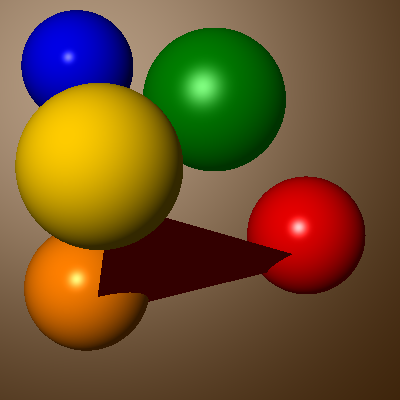
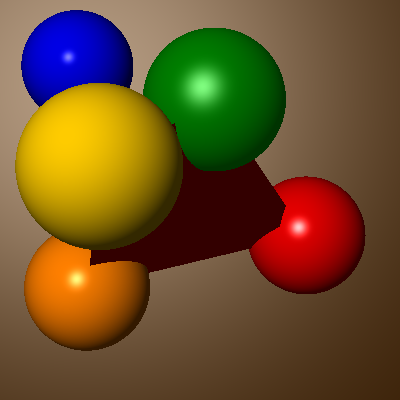
fixed triangles

Changed region(s): [[0.21, 0.39, 0.72, 0.75], [0.42, 0.3, 0.45, 0.33]]

diff --git a/Amabili_Eilers_Raytracer_1/Code/shapes/triangle.cpp b/Amabili_Eilers_Raytracer_1/Code/shapes/triangle.cpp
@@ -8,85 +8,50 @@ using namespace std;
 Hit Triangle::intersect(Ray const &ray)
 {
     /****************************************************
-    * RT1.1: INTERSECTION CALCULATION
+    * RT1.1: INTERSECTION AND NORMAL CALCULATION
     *
     * Given: ray.0, ray.D, v1, v2, v3
     * Sought: intersects? if true: *t
     *
-    * The ray parametric equation is:
-    *       ray = p + t * d
+    * Using the Möller-Trumbore algorithm
     *
-    * where d = distance between ray and position
-    *       p = point in the line
-    *       t = vector that provides the line's direction 
-    *
-    * Considering that 
-    *       point(u,v) = (1-u-v)*p0 + u*p1 + v*p2
-    *
-	*       where p0,p1,p2 are the vertices of the triangle 
-    *
-	*       u >= 0
-	*       v >= 0
-	*       u + v <= 1
-    *
-    * If the ray does not intersect the sphere, return false.
-    * Otherwise, return true and place the distance of the
-    * intersection point from the ray origin in *t (see example).
     ****************************************************/
 
-    // place holder for actual intersection calculation
     
     // Edge vectors
-
     
+    Vector dd = ray.D;
+    dd = dd * dd.length();
+
     Vector e1 = (v2 - v1);
     Vector e2 = (v3 - v1);
 
-    // Face normal - Normal calculation
-    Vector N = e1.cross(e2);
+    Vector pvec = ray.D.cross(e2);
+    double det = e1.dot(pvec);
   
-    double q = N.dot(ray.D);
 
     // To check relative position of the triangle with the ray
-    if (fabs(q) < eps) return Hit::NO_HIT();
+    if (fabs(det) < eps) return Hit::NO_HIT();
+    
 
-    double d = N.dot(v1);
+    double invDet = 1.0 / det;
+    
+    Vector tvec = ray.O - v1;
+    double u = tvec.dot(pvec)*invDet;
+    
+    if (u < 0 || u > 1) return Hit::NO_HIT();
+    
+    Vector qvec = tvec.cross(e1);
+    double v = ray.D.dot(qvec) * invDet;
+    
+    if (v < 0 || u + v > 1) return Hit::NO_HIT(); 
 
-    double t =- ((N.dot(ray.O) + d) / q); 
-
-
-    // To check if the triangle is in behind the ray
-    if (t < 0) return Hit::NO_HIT();
-
+    double t =  e2.dot(qvec) * invDet;
+    
+    
+    // Normal calculation
+    Vector N = e1.cross(e2);
    
-
-    Vector P = ray.O + (t * ray.D);
-
-    // To test whether the intersection is outside the triangle
-    // Checking edge by edge
-    Vector edge1 = (v2 - v1);
-    Vector edge2 = (v3 - v2);
-    Vector edge3 = (v1 - v3);
-    Vector C1 = P - v1;
-    Vector C2 = P - v2;
-    Vector C3 = P - v3;
-
-    if (N.dot(edge1.cross(C1)) < 0 ||
-        N.dot(edge2.cross(C2)) < 0 ||
-        N.dot(edge3.cross(C3)) < 0) return Hit::NO_HIT();
-       
-
-                 
-
-    /****************************************************
-    * RT1.2: NORMAL CALCULATION
-    *
-    * Given: t, C, r
-    * Sought: N
-    *
-    * Insert calculation of the sphere's normal at the intersection point.
-    ****************************************************/
-
     N.normalize();
 
     return Hit(t, N);

diff --git a/Amabili_Eilers_Raytracer_1/Code/scene.cpp b/Amabili_Eilers_Raytracer_1/Code/scene.cpp
@@ -31,9 +31,9 @@ Color Scene::trace(Ray const &ray)
     Material material = obj->material;             //the hit objects material
     Point hit = ray.at(min_hit.t);                 //the hit point
     Vector N = min_hit.N;                          //the normal at hit point
-    //printf("%lf, %lf, %lf\n", ray.D.x, ray.D.y, ray.D.z);
     Vector V = -ray.D;                             //View direction 
-    Color color = getLighting(material, hit, N, V);
+    
+    Color color = getLighting(material, hit, N, V); //Get full phong lighting
 
     /****************************************************
     * This is where you should insert the color
@@ -101,6 +101,12 @@ unsigned Scene::getNumLights()
     return lights.size();
 }
 
+/**
+ * @brief Calculates full phong lighting
+ * @param Material of the shape, point of intersection, normal vector, view vector
+ * @returns The color of the pixel the be drawn
+ */
+
 Color Scene::getLighting(Material material, Point hit, Vector N, Vector V) {
     
     Color color(0.0, 0.0, 0.0);
@@ -113,14 +119,13 @@ Color Scene::getLighting(Material material, Point hit, Vector N, Vector V) {
     
         Color id(0.0,0.0,0.0);
         double dot = L.dot(N);
-        if(dot > 0)  id = dot *  material.color* light->color * material.kd;
+        if(dot > 0) id = dot *  material.color* light->color * material.kd;
     
         //Specular
     
         dot = R.dot(V);    
         Color is(0.0,0.0,0.0);
         if(dot > 0) is = pow(dot, material.n) * light->color*material.ks;
-    
     
         color = color + id + is;
     }

diff --git a/Amabili_Eilers_Raytracer_1/Code/shapes/sphere.cpp b/Amabili_Eilers_Raytracer_1/Code/shapes/sphere.cpp
@@ -22,8 +22,6 @@ Hit Sphere::intersect(Ray const &ray)
     * intersection point from the ray origin in *t (see example).
     ****************************************************/
 
-    // place holder for actual intersection calculation
-
     Vector OC = (position - ray.O);
     double tca = OC.dot(ray.D);
     if (tca < 0) {
@@ -35,16 +33,17 @@ Hit Sphere::intersect(Ray const &ray)
     if(d > r) {
         return Hit::NO_HIT();
     }
+    
     double tch = sqrt(r*r -d*d);
     double t1 = tca-tch;
     double t2 = tca + tch;
     
     
-    if (t1 > t2) swap(t1,t2);
+    if (t1 > t2) swap(t1,t2); //Smallest t is closest intersection
     
     if (t1 < 0) {
         t1 = t2;
-        if (t1 < 0) return Hit::NO_HIT(); 
+        if (t1 < 0) return Hit::NO_HIT(); //Both intersections are negative
     }
 
     double t = t1;
@@ -58,15 +57,11 @@ Hit Sphere::intersect(Ray const &ray)
     *
     * Insert calculation of the sphere's normal at the intersection point.
     ****************************************************/
-
-
     
-    Vector p = ray.O + (ray.D*t);
+    Vector p = ray.at(t); //Point of intersection
     Vector N = p - position;
     
     N.normalize();
-    
-
 
     return Hit(t,N);
 }

diff --git a/Amabili_Eilers_Raytracer_1/Code/raytracer.cpp b/Amabili_Eilers_Raytracer_1/Code/raytracer.cpp
@@ -21,9 +21,13 @@
 
 #include "json/json.h"
 
+#include <utility> // declval, forward, move, pair, swap
+
 #include <exception>
 #include <fstream>
 #include <iostream>
+
+
 
 using namespace std;        // no std:: required
 using json = nlohmann::json;
@@ -56,8 +60,9 @@ bool Raytracer::parseObjectNode(json const &node)
         obj = ObjectPtr(new Triangle(v1, v2, v3));
     }
     else if (node["type"] == "mesh") 
-    {
-
+    {   
+        json j = node["name"];
+        //if(j.is_string()); c = j.get_impl_ptr(s.to_string_t);
        // OBJLoader objl(node["name"]);    
     }
     else

diff --git a/Amabili_Eilers_Raytracer_1/Code/shapes/plane.cpp b/Amabili_Eilers_Raytracer_1/Code/shapes/plane.cpp
@@ -21,12 +21,12 @@ Hit Plane::intersect(Ray const &ray)
     
     double d = normal.dot(ray.D);
     
-    if(d < 0.000001) return Hit::NO_HIT(); //Ray is (close to) parrallel to the plane
+    if(d < 0.000001) return Hit::NO_HIT(); //Ray is (close to) parallel to the plane
     
     Vector p = position - ray.O;
     double t = p.dot(normal) / d;
     
-    if(t < 0) return Hit::NO_HIT();
+    if(t < 0) return Hit::NO_HIT(); //Ray is behind plane
     
     normal.normalize();
     

diff --git a/Amabili_Eilers_Raytracer_1/Code/shapes/triangle.h b/Amabili_Eilers_Raytracer_1/Code/shapes/triangle.h
@@ -3,6 +3,10 @@
 
 #include "../object.h"
 
+/**
+ * A triangle is consists of three points or vertices in 3d space.
+ */
+
 class Triangle: public Object
 {
     public:
@@ -10,7 +14,7 @@ class Triangle: public Object
 
         virtual Hit intersect(Ray const &ray);
 
-        /* My data members*/
+        /* Data members*/
 
         Point const v1;
         Point const v2;

diff --git a/Amabili_Eilers_Raytracer_1/Code/shapes/plane.h b/Amabili_Eilers_Raytracer_1/Code/shapes/plane.h
@@ -3,6 +3,10 @@
 
 #include "../object.h"
 
+/**
+ * Plane is defined by its position and its normal defining the orientation of the plane
+ */
+
 class Plane: public Object
 {
     public:

diff --git a/Amabili_Eilers_Raytracer_1/Code/triple.cpp b/Amabili_Eilers_Raytracer_1/Code/triple.cpp
@@ -6,6 +6,7 @@
 #include <exception>
 #include <iostream>
 
+
 using namespace std;
 using json = nlohmann::json;
 

diff --git a/Amabili_Eilers_Raytracer_1/README.md b/Amabili_Eilers_Raytracer_1/README.md
@@ -1,102 +1,8 @@
-# Raytracer C++ framework for Introduction to Computer Graphics
+### Assignment #2 - Raytracer 1 - Computer Graphics course - made
+by Lorenzo Amabili(p281542) and Pieter Jan Eilers(s2381575) .
+## The project consisted of producing a 3D scene using a basic ray tracing algorithm, and the implementation of (Phong) illumination will be based on the intersection calculation together with normal calculation. Additional geometries such as a triangle and a plane have been implemented too.
+## Following the instructions, we completed successfully the implementation of "Raycasting with spheres & Phong illumination" (i.e., (a) Phong diffuse (b) Full Phong (c) Scene 2) ), whereas we partially completed the section "Additional geometry and meshes ".
 
-This is a C++ framework for a raytracer. It is created for the Computer
-Science course "Introduction to Computer Graphics" taught at the
-University of Groningen.
-
-This framework is inspired by and uses (some) code of the raytracer framework of
-Bert Freudenberg which unfortunately is no longer available.
-
-## Compiling the code
-
-We provided a [CMakeLists.txt](CMakeLists.txt) file to be used with `cmake`.
-This can be used in the following way (on the command line/shell):
-```
-# cd into the main directory of the framework
-mkdir build   # create a new build directory
-cd build      # cd into the directory
-cmake ..      # creates a Makefile
-# Comipiling the code can then be done with:
-make
-# or
-make -j4      # replacing 4 with the number of cores of your pc
-```
-**Note!** After adding new `.cpp` files (when adding new shapes)
-`cmake ..` needs to be called again or you might get linker errors.
-
-## Running the Raytracer
-After compilation you should have the `ray` executable.
-This can be used like this:
-```
-./ray <path to .json file> [output .png file]
-# when in the build directory:
-./ray ../Scenes/scene01.json
-```
-Specifying an output is optional and by default an image will be created in
-the same directory as the source scene file with the `.json` extension replaced
-by `.png`.
-
-## Description of the included files
-
-### Scene files
-* `Scenes/*.json`: Scene files are structured in JSON. If you have never
-    worked with json, please see [here](https://en.wikipedia.org/wiki/JSON#Data_types,_syntax_and_example)
-    or [here](https://www.json.org/).
-
-    Take a look at the provided example scenes for the general structure.
-    You are free (and encouraged) to define your own scene files later on.
-
-### The raytracer source files (Code directory)
-
-* `main.cpp`: Contains main(), starting point. Responsible for parsing
-    command-line arguments.
-
-* `raytracer.cpp/.h`: Raytracer class. Responsible for reading the scene
-    description, starting the raytracer and writing the result to an image file.
-
-* `scene.cpp/.h`: Scene class. Contains code for the actual raytracing.
-
-* `image.cpp/.h`: Image class, includes code for reading from and writing to PNG
-    files.
-
-* `light.h`: Light class. Plain Old Data (POD) class. Colored light at a
-    position in the scene.
-
-* `ray.h`: Ray class. POD class. Ray from an origin point in a direction.
-
-* `hit.h`: Hit class. POD class. Intersection between an `Ray` and an `Object`.
-
-* `object.h`: virtual `Object` class. Represents an object in the scene.
-    All your shapes should derive from this class. See
-
-* `shapes (directory/folder)`: Folder containing all your shapes.
-
-* `sphere.cpp/.h (inside shapes)`: Sphere class, which is a subclass of the
-    `Object` class. Represents a sphere in the scene.
-
-* `example.cpp/.h (inside shapes)`: Example shape class. Copy these two files
-    and replace/rename **every** instance of `Example` `example.h` or `EXAMPLE`
-    with your new shape name.
-
-* `triple.cpp/.h`: Triple class. Represents a 3-dimensional vector which is
-    used for colors, points and vectors.
-    Includes a number of useful functions and operators, see the comments in
-    `triple.h`.
-    Classes of `Color`, `Vector`, `Point` are all aliases of `Triple`.
-
-* `objloader.cpp/.h`: Is a similar class to Model used in the OpenGL
-    exercises to load .obj model files. It produces a std::vector
-    of Vertex structs. See `vertex.h` on how you can retrieve the
-    coordinates and other data defined at vertices.
-
-### Supporting source files (Code directory)
-
-* `lode/*`: Code for reading from and writing to PNG files,
-    used by the `Image` class.
-    lodepng is created by Lode Vandevenne and can be found on
-    [github](https://github.com/lvandeve/lodepng).
-* `json/*`: Code for parsing JSON documents.
-    Created by Niels Lohmann and available under the MIT license on
-    [github](https://github.com/nlohmann/json).
-    **Recommended:** Especially take a look at their README for more
-    info on how to work with json files.
+## Prerequisites
+: cmake, building still works the same, we did not add multithreading 
+## We used a GitHub repository for our project: https://github.com/PJEilers/ComputerGraphics
